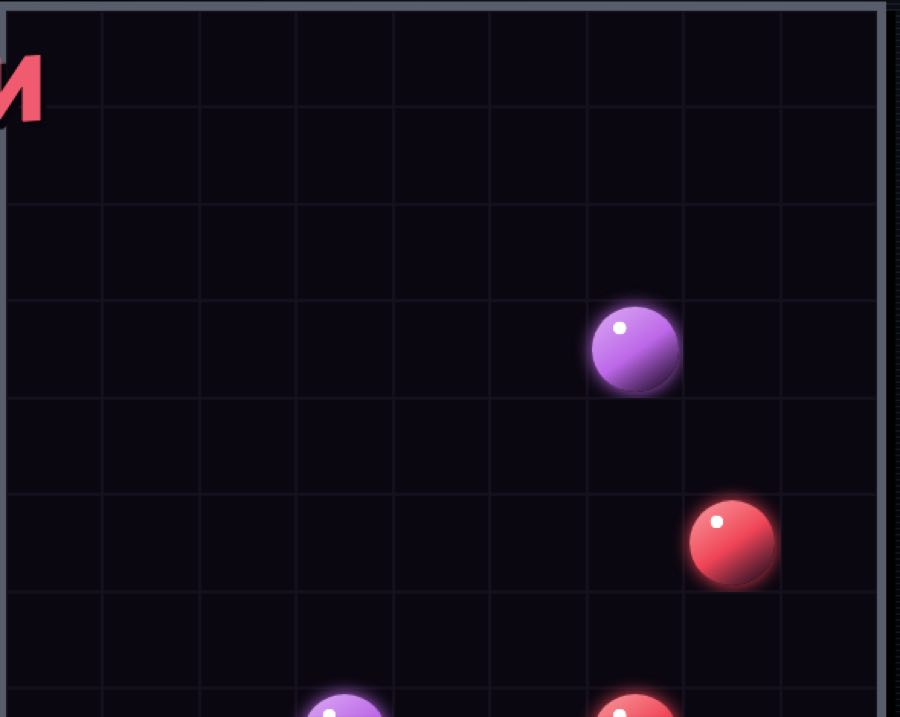
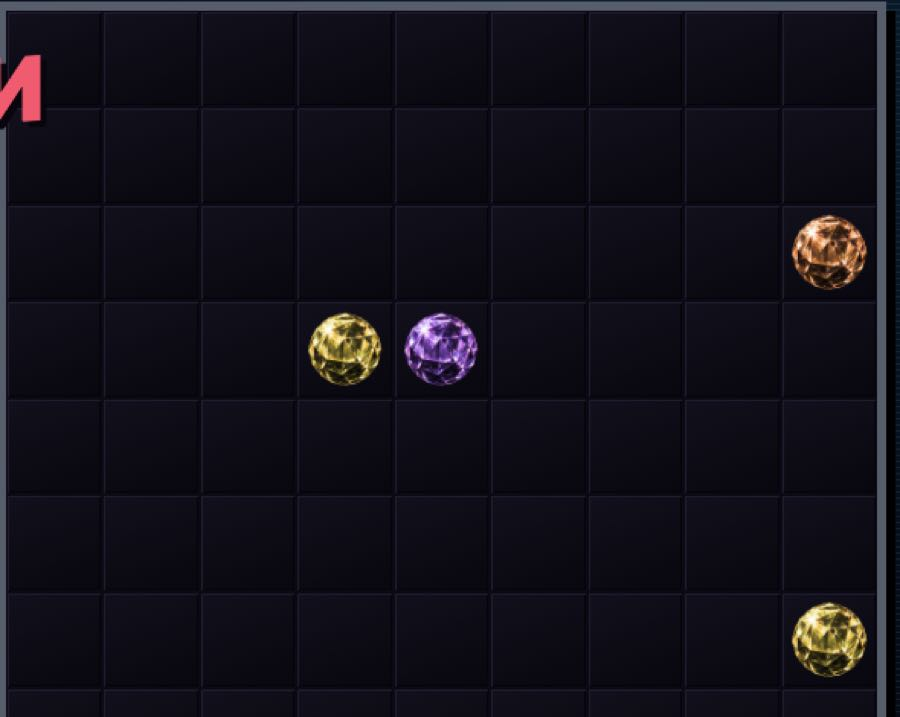
Stop serving our own internals, and tell the truth about the games
Project folders ship whole, and internals rode along: psy-admin/README.md
and test.mjs had been public since 28 August. They are excluded from the
deploy now and removed from the server; vendor licence notices are kept,
because those must be distributed. verify.sh watches all three.

«Один удар» was on the shelf as unfinished with no link — it has been live
at /udar/ for a while, which is not the address the card assumed. It is a
playable game with a description that missed the point: the whole mechanic
is hitting on the beat. On the beat you kill first and in one blow; off it
you need two, and two is enough to get killed yourself.

«Неон Линии» said «классические „Линии“». They are not classic any more —
stages, a magic ball, a bomb, a stone, five undos at fifty points each. Both
the words and the frame were describing a game that no longer exists.

Тетколор only needed a new frame, but its blocks are drawn at random each
game, so any single shot misrepresents the other ten sets. The caption says
so, which is both honest and an advertisement for the mechanic.

diff --git a/index.html b/index.html
@@ -490,7 +490,7 @@
         <div class="play-bar">
           <span class="dot" aria-hidden="true"></span>
           <code>8 игр · открываются по ссылке · без установки и аккаунта</code>
-          <span class="verdict">5 готовых · 2 в альфе · 1 в сборке</span>
+          <span class="verdict">6 готовых · 2 в альфе</span>
         </div>
           <div class="ggrid">
         <a class="gcard" data-art="uno" href="/acid/" data-umami-event="game-open" data-umami-event-game="acid-uno">
@@ -505,7 +505,7 @@
           </div>
         </a>
         <a class="gcard" data-art="cubes" href="/tetcolor/" data-umami-event="game-open" data-umami-event-game="tetcolor">
-          <span class="gart" aria-hidden="true"><img class="gshot" src="/assets/shots/game-tetcolor.jpg?v=d949d148" alt=""
+          <span class="gart" aria-hidden="true"><img class="gshot" src="/assets/shots/game-tetcolor.jpg?v=032f710c" alt=""
                 width="900" height="684" decoding="async" loading="lazy"><video class="gclip" muted loop playsinline preload="none" tabindex="-1"
                 data-src="/assets/clips/clip-tetcolor.mp4?v=ed7e5f85"></video></span>
           <div class="gcard-body">
@@ -544,12 +544,12 @@
           </div>
           <div class="ggrid">
         <a class="gcard" data-art="orbs" href="/lines/" data-umami-event="game-open" data-umami-event-game="neon-lines">
-          <span class="gart" aria-hidden="true"><img class="gshot" src="/assets/shots/game-lines.jpg?v=793f2858" alt=""
+          <span class="gart" aria-hidden="true"><img class="gshot" src="/assets/shots/game-lines.jpg?v=a67115cc" alt=""
                 width="900" height="717" decoding="async" loading="lazy"></span>
           <div class="gcard-body">
             <div class="gcard-top"><span class="status status-live">играть</span></div>
             <h3 class="gcard-title">Неон Линии</h3>
-            <p class="gcard-text">Передвигай шарики по полю и выстраивай пять одинаковых в линию.</p>
+            <p class="gcard-text">Линии, которые перестали быть классическими: этапы, волшебный шар, бомба и камень.</p>
             <span class="launch">ЗАПУСТИТЬ <b>↗</b></span>
           </div>
         </a>
@@ -574,15 +574,16 @@
             <span class="launch">ЗАПУСТИТЬ <b>↗</b></span>
           </div>
         </a>
-        <article class="gcard" data-art="blade">
-          <span class="gart" aria-hidden="true"><i></i><i></i><i></i></span>
+        <a class="gcard" data-art="blade" href="/udar/" data-umami-event="game-open" data-umami-event-game="odin-udar">
+          <span class="gart" aria-hidden="true"><img class="gshot" src="/assets/shots/game-udar.jpg?v=647e37ed" alt=""
+                width="900" height="497" decoding="async" loading="lazy"></span>
           <div class="gcard-body">
-            <div class="gcard-top"><span class="status status-wip">в сборке</span></div>
+            <div class="gcard-top"><span class="status status-live">играть</span></div>
             <h3 class="gcard-title">Один удар</h3>
-            <p class="gcard-text">Быстрый экшен сверху вниз: с одного удара умирают все, включая игрока.</p>
-            <span class="launch">СКОРО</span>
+            <p class="gcard-text">Экшен сверху вниз, где удар считается по такту музыки.</p>
+            <span class="launch">ЗАПУСТИТЬ <b>↗</b></span>
           </div>
-        </article>
+        </a>
           </div>
         </section>
 
